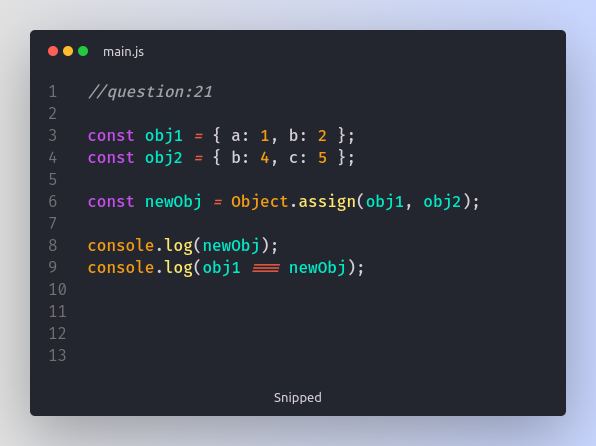
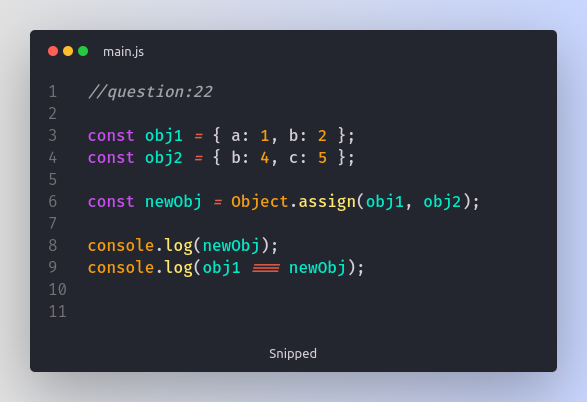
added new quesion

diff --git a/main.js b/main.js
@@ -1,4 +1,66 @@
-//question:21
+//question:26
+function add(item, arr) {
+  return arr.push(item);
+}
+const result = add("c", ["a", "b"]);
+console.log(result);
+
+/* //question:25
+
+setTimeout(() => {
+  console.log(1);
+}, 0);
+
+Promise.resolve().then(() => {
+  console.log(3);
+  Promise.resolve().then(() => {
+    console.log(10);
+  });
+});
+
+queueMicrotask(() => {
+  console.log(2);
+  queueMicrotask(() => {
+    console.log(12);
+  });
+});
+
+console.log(4); */
+
+/* //question:24
+const obj = {
+  x: 10,
+  y: 20,
+};
+
+Object.freeze(obj);
+const newObj = obj;
+newObj.x = 50;
+newObj.y = 60;
+
+console.log(newObj.x);
+console.log(newObj.y); */
+
+/* //question:23
+
+const obj1 = {
+  name: "sumon",
+  address: {
+    country: "Bangladesh",
+    city: "Khulna",
+    ["post office"]: {
+      one: "Rupsha",
+    },
+  },
+};
+const obj2 = structuredClone(obj1);
+// const obj2 = { ...obj1 };
+
+obj2.address["post office"].one = "Sadar";
+
+console.log(obj1.address["post office"].one); */
+
+/* //question:22
 
 const obj1 = { a: 1, b: 2 };
 const obj2 = { b: 4, c: 5 };
@@ -6,7 +68,7 @@ const obj2 = { b: 4, c: 5 };
 const newObj = Object.assign(obj1, obj2);
 
 console.log(newObj);
-console.log(obj1 === newObj);
+console.log(obj1 === newObj); */
 
 /* //question:21
 function test(a, a) {
